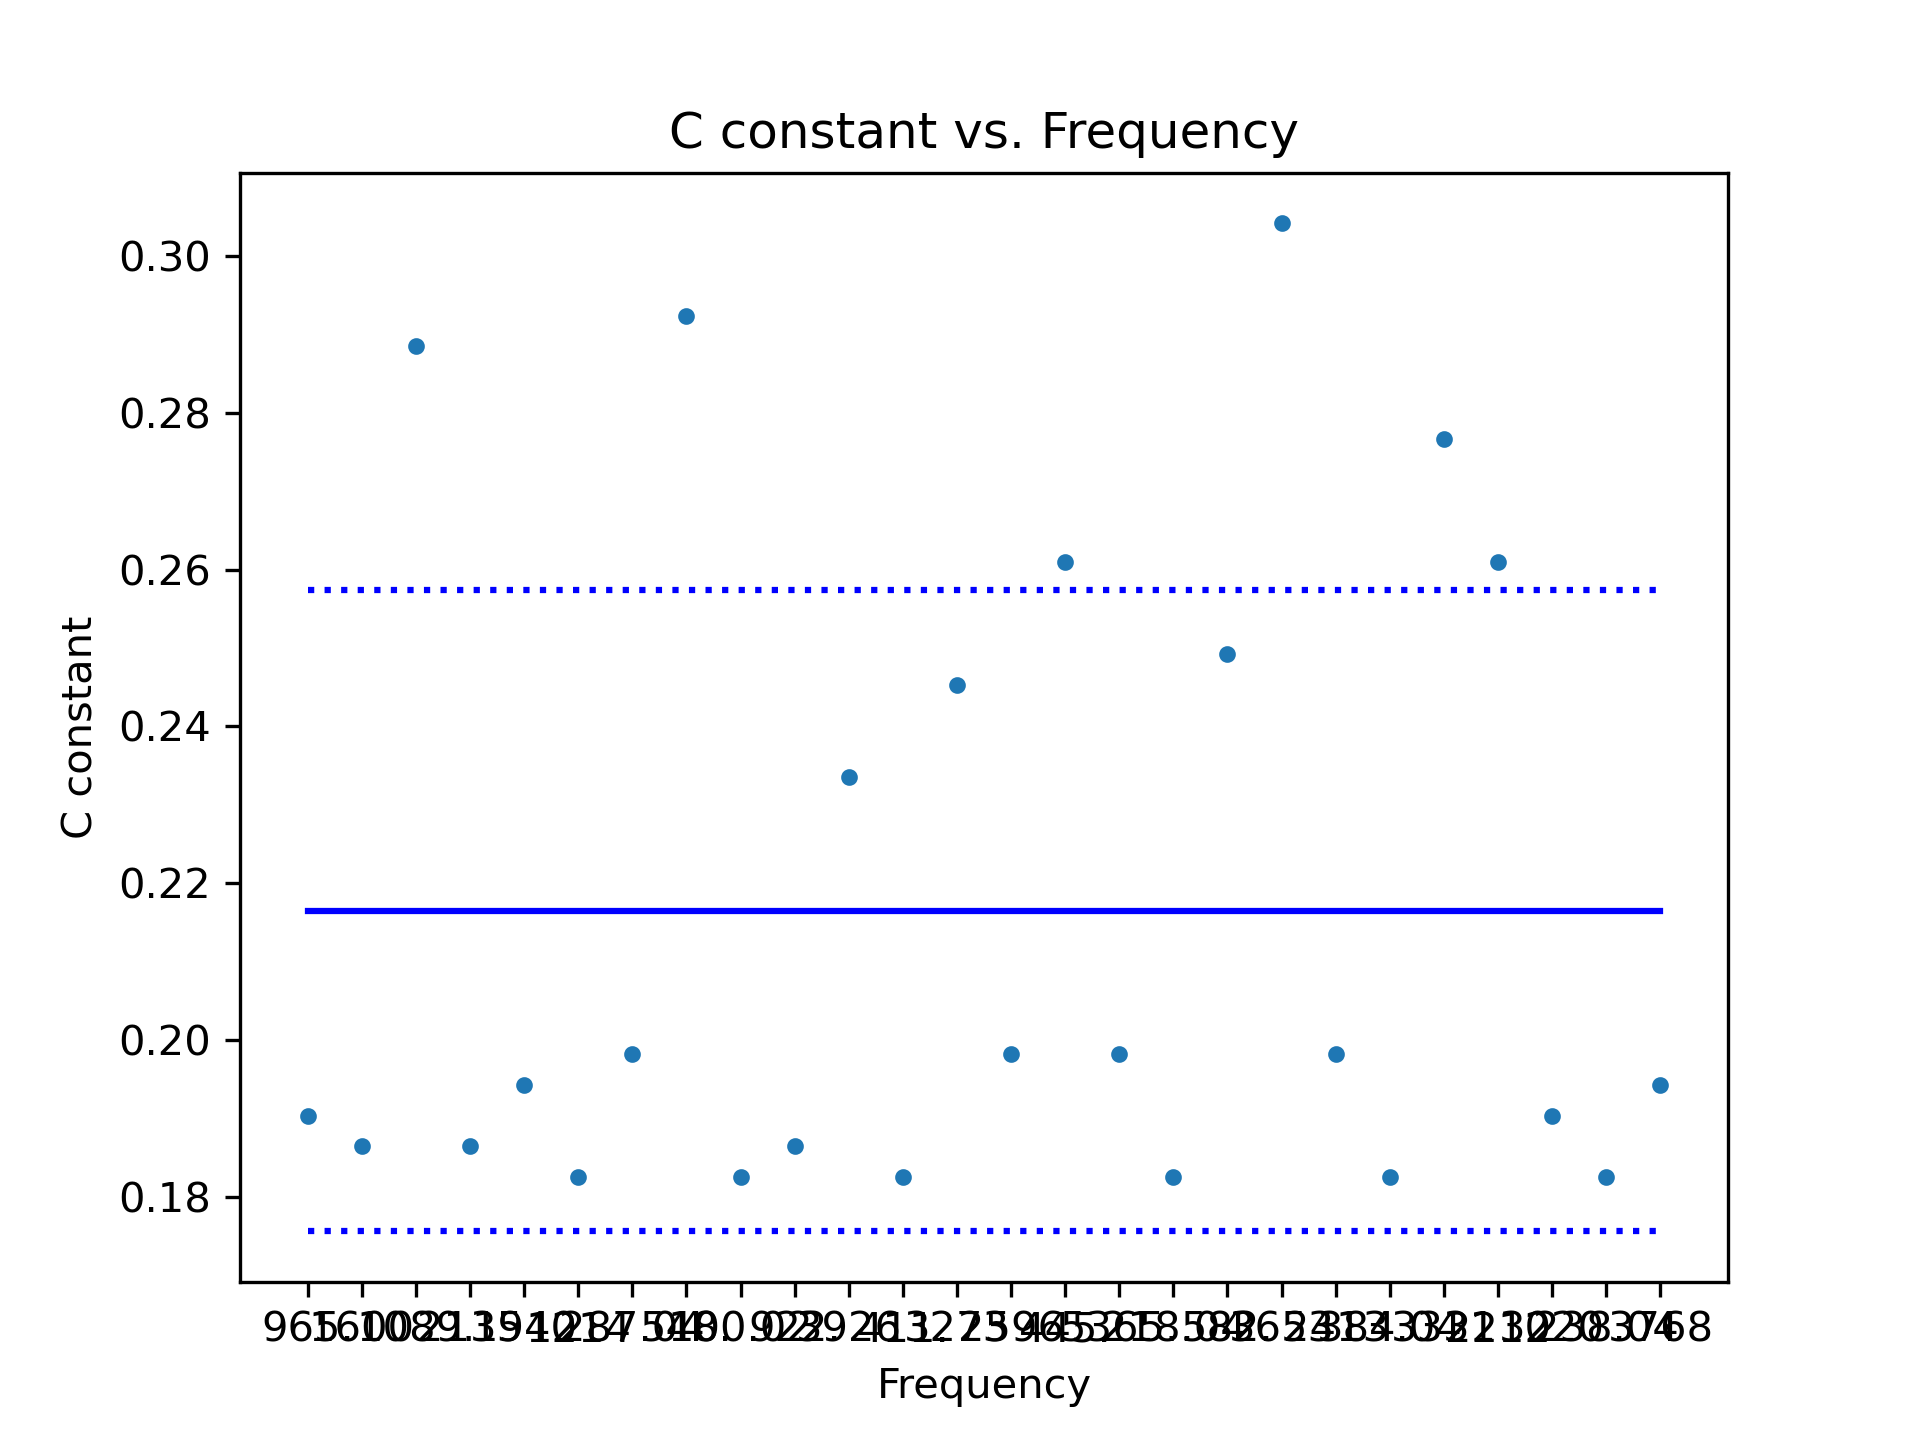
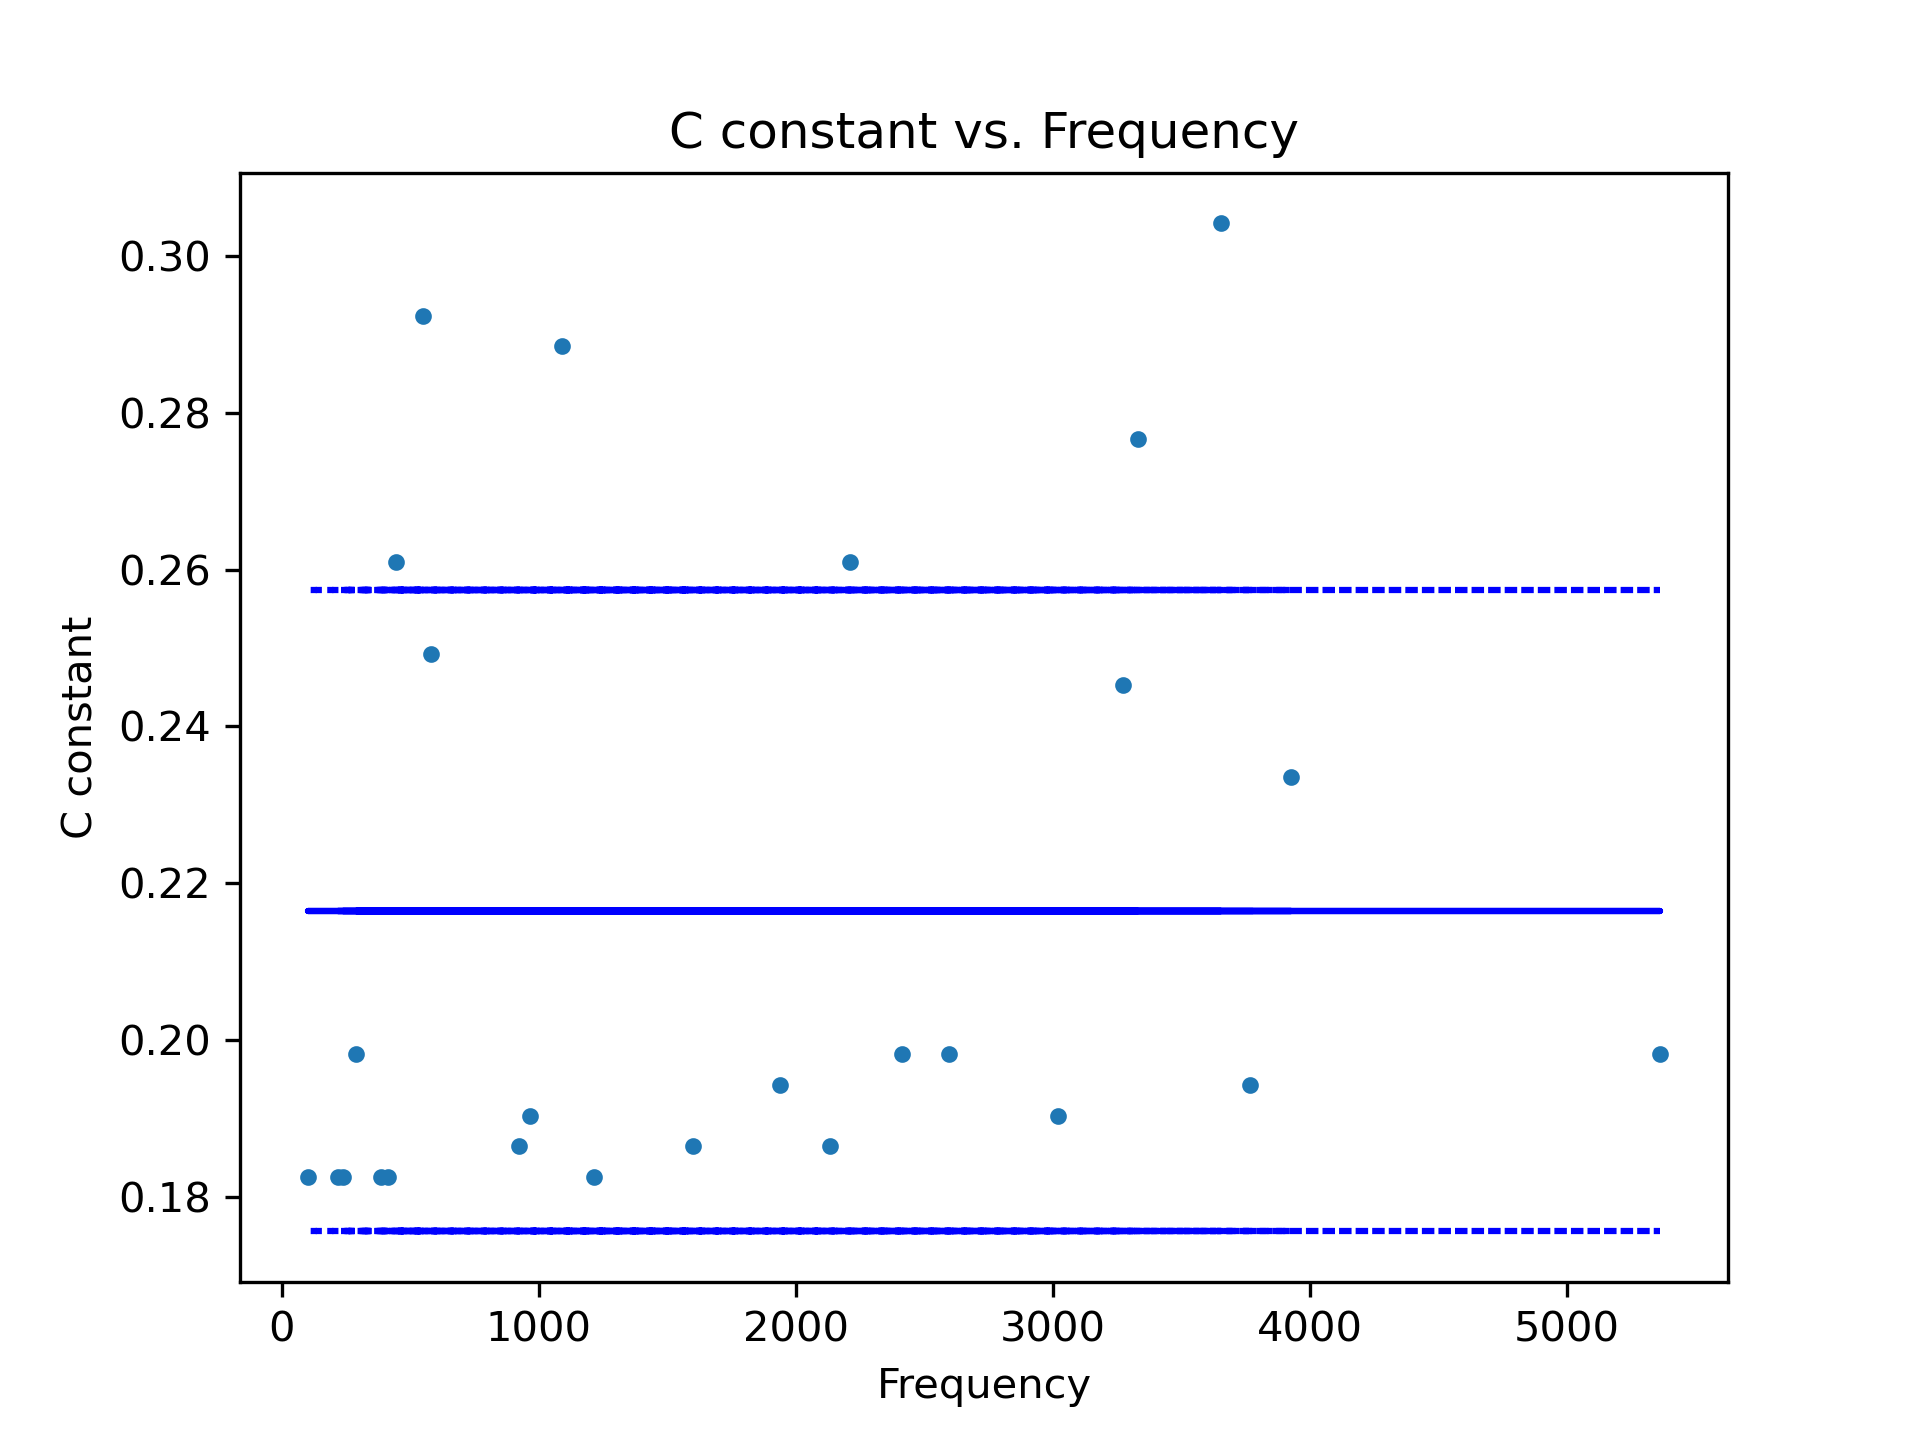
Run (need to add data)

diff --git a/ReverseFit/ReverseFit.py b/ReverseFit/ReverseFit.py
@@ -87,14 +87,13 @@ if __name__ == '__main__':
         writer.writerow(['Mean', 'Dev'])
         writer.writerow([mean, dev])
 
+    freq_list = [float(s) for s in freq_list]
     fig = plt.figure()
     plt.plot(freq_list, c_each, '.')
-    plt.plot(freq_list, np.zeros(len(freq_list))+mean, color='blue')
-    plt.plot(freq_list, np.zeros(len(freq_list))+mean+dev, color='blue', linestyle='dotted')
-    plt.plot(freq_list, np.zeros(len(freq_list))+mean-dev, color='blue', linestyle='dotted')
+    plt.plot(freq_list, np.zeros(len(freq_list)) + mean, color='blue')
+    plt.plot(freq_list, np.zeros(len(freq_list)) + mean + dev, color='blue', linestyle='dotted')
+    plt.plot(freq_list, np.zeros(len(freq_list)) + mean - dev, color='blue', linestyle='dotted')
     plt.title('C constant vs. Frequency')
     plt.ylabel('C constant')
     plt.xlabel('Frequency')
-    ticks = [freq_list[f] for f in range(len(freq_list)) if f % 2 == 0]
-    plt.xticks(ticks)
     plt.savefig('/Users/jakebuchanan/code/chladni/ReverseFit/output.png', dpi=300)
